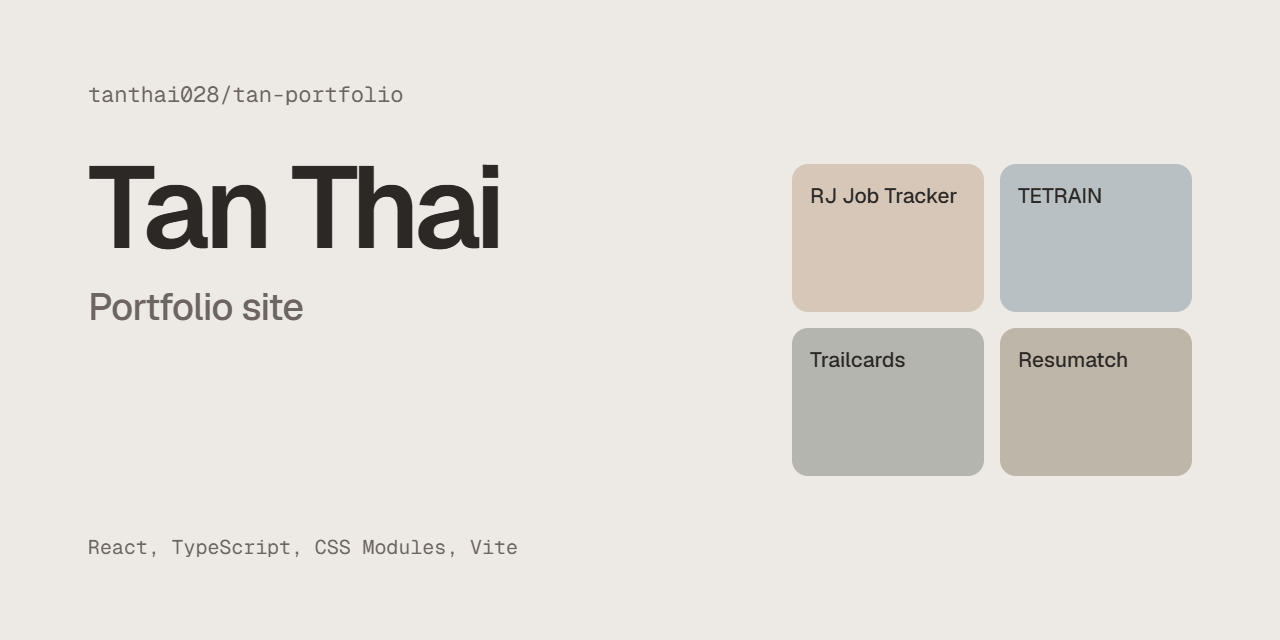
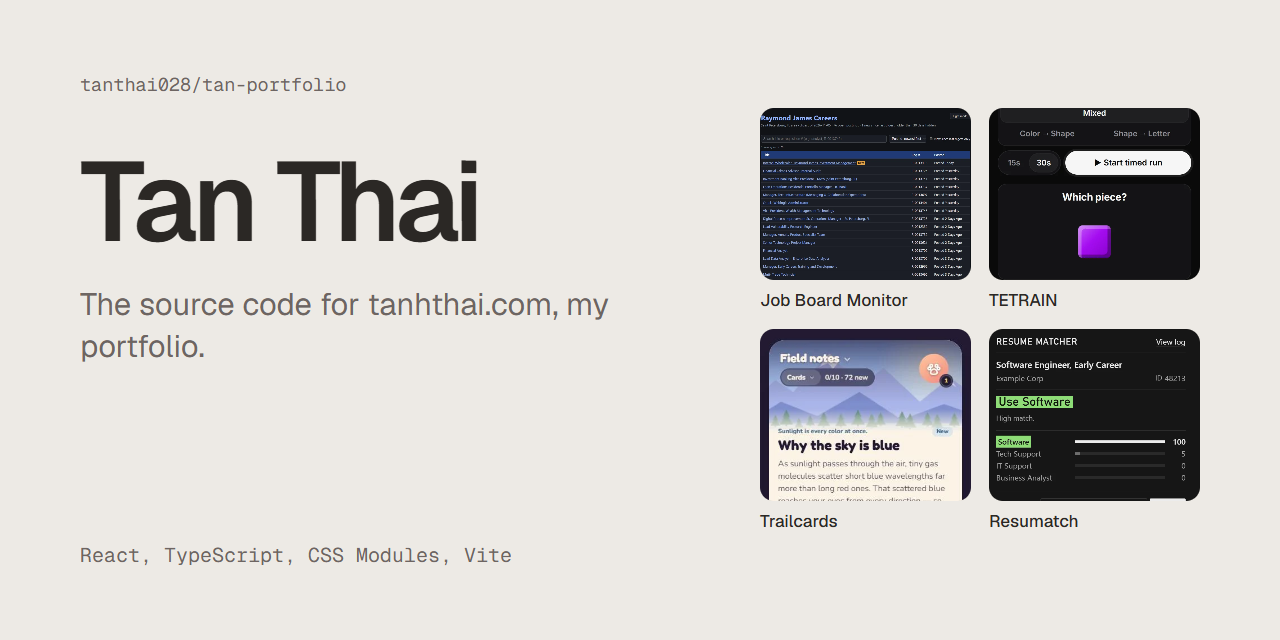
content: new link and GitHub previews with the current tagline, URL and project screenshots

diff --git a/index.html b/index.html
@@ -20,7 +20,7 @@
     <meta property="og:image" content="%SITE_URL%/og.png" />
     <meta property="og:image:width" content="1200" />
     <meta property="og:image:height" content="630" />
-    <meta property="og:image:alt" content="Tan Thai, software engineer, next to color swatches for four projects" />
+    <meta property="og:image:alt" content="Tan Thai, software engineer, open to entry-level roles in Florida or remote, next to screenshots of four projects" />
     <meta name="twitter:card" content="summary_large_image" />
     <script>
       // Apply the saved theme before first paint so there is no flash. Light is the default.

diff --git a/README.md b/README.md
@@ -40,12 +40,12 @@ Text lives in typed data files, not in components.
 
 Types are in `src/types/content.ts`. Static files are in `public/`:
 
-- `Tan_Thai_Resume.pdf` is the résumé download.
+- `Tan_Thai_Resume.pdf` is the résumé. It opens in a new tab.
 - `tan-avatar.webp` and `tan-photo.webp` are the header avatar and the About photo.
 - `projects/*.webp` are project screenshots. A project's first image is its card cover, and every image shows in its pop-up, where it opens full size on click.
-- `og.png` is the 1200×630 link preview.
+- `og.png` is the 1200×630 link preview, and `docs/github-social-preview.png` is the 1280×640 preview for the GitHub repo.
 
-Covers are laid out by shape, so a new screenshot needs only its `width` and `height` in the data file. Wide desktop shots fill the frame, while square popups and tall phone screens get narrower widths (`src/components/work/imageShape.ts`).
+Every cover fills the same frame, anchored to the top of the screenshot, so a new screenshot needs only its `width` and `height` in the data file.
 
 ## Structure
 
